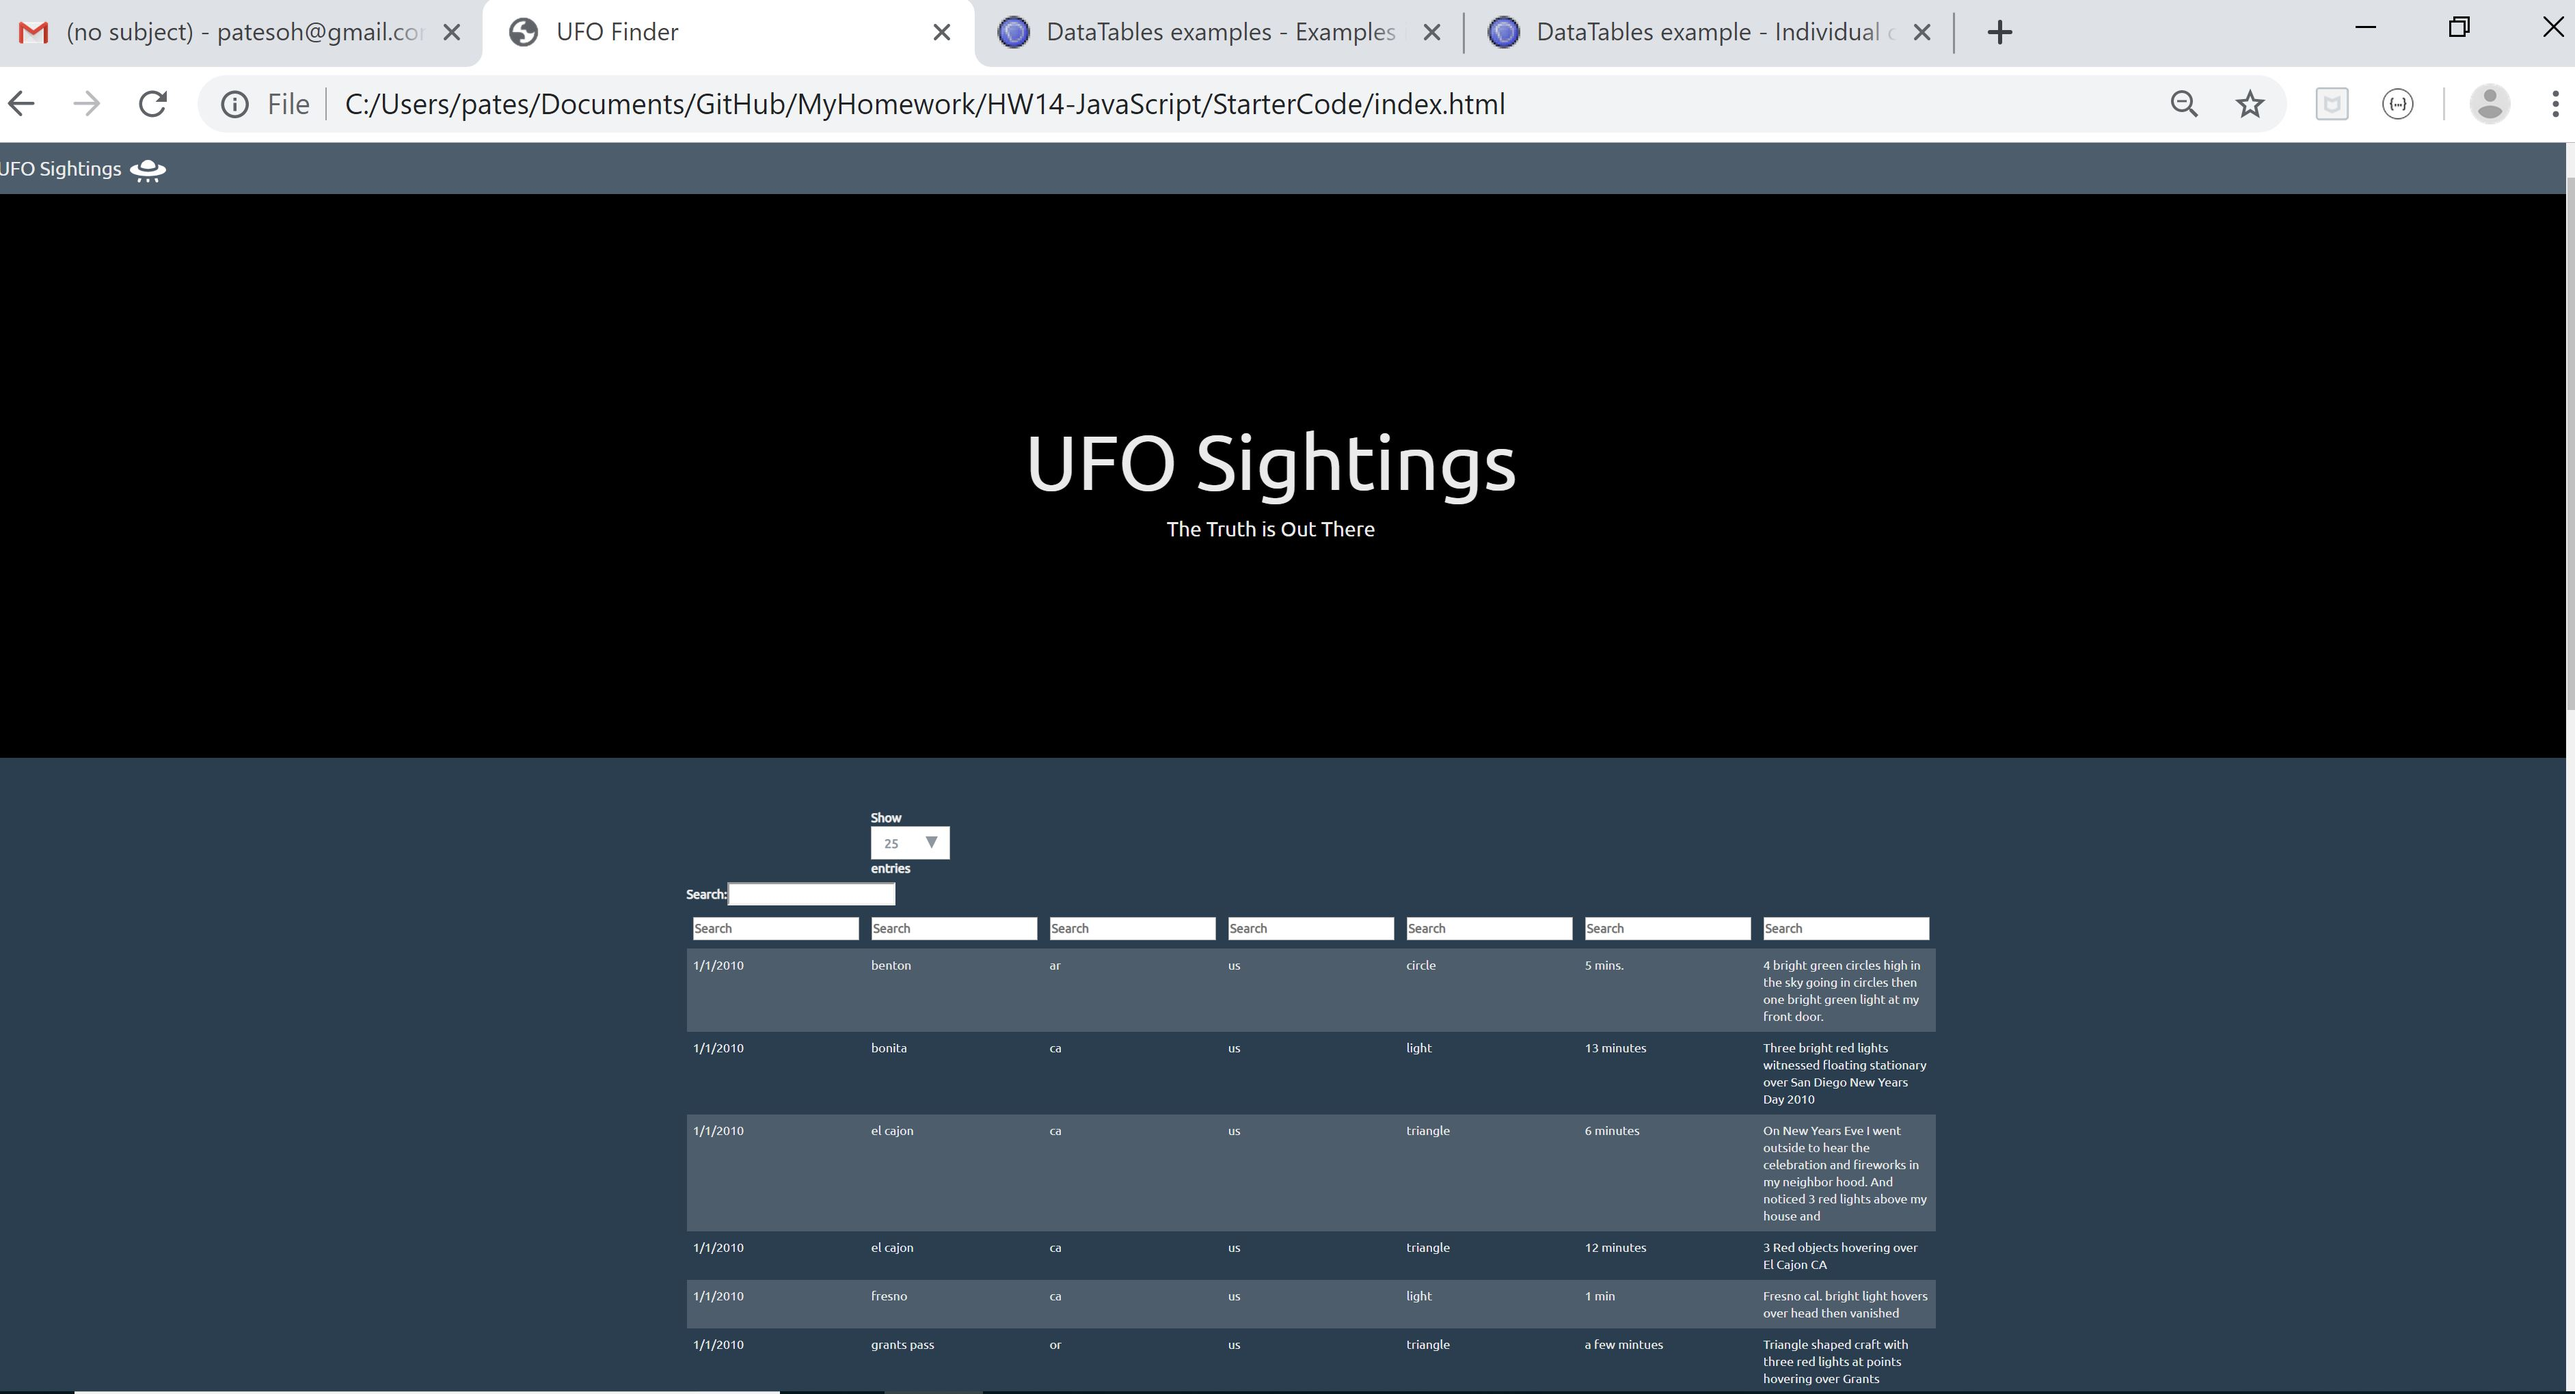
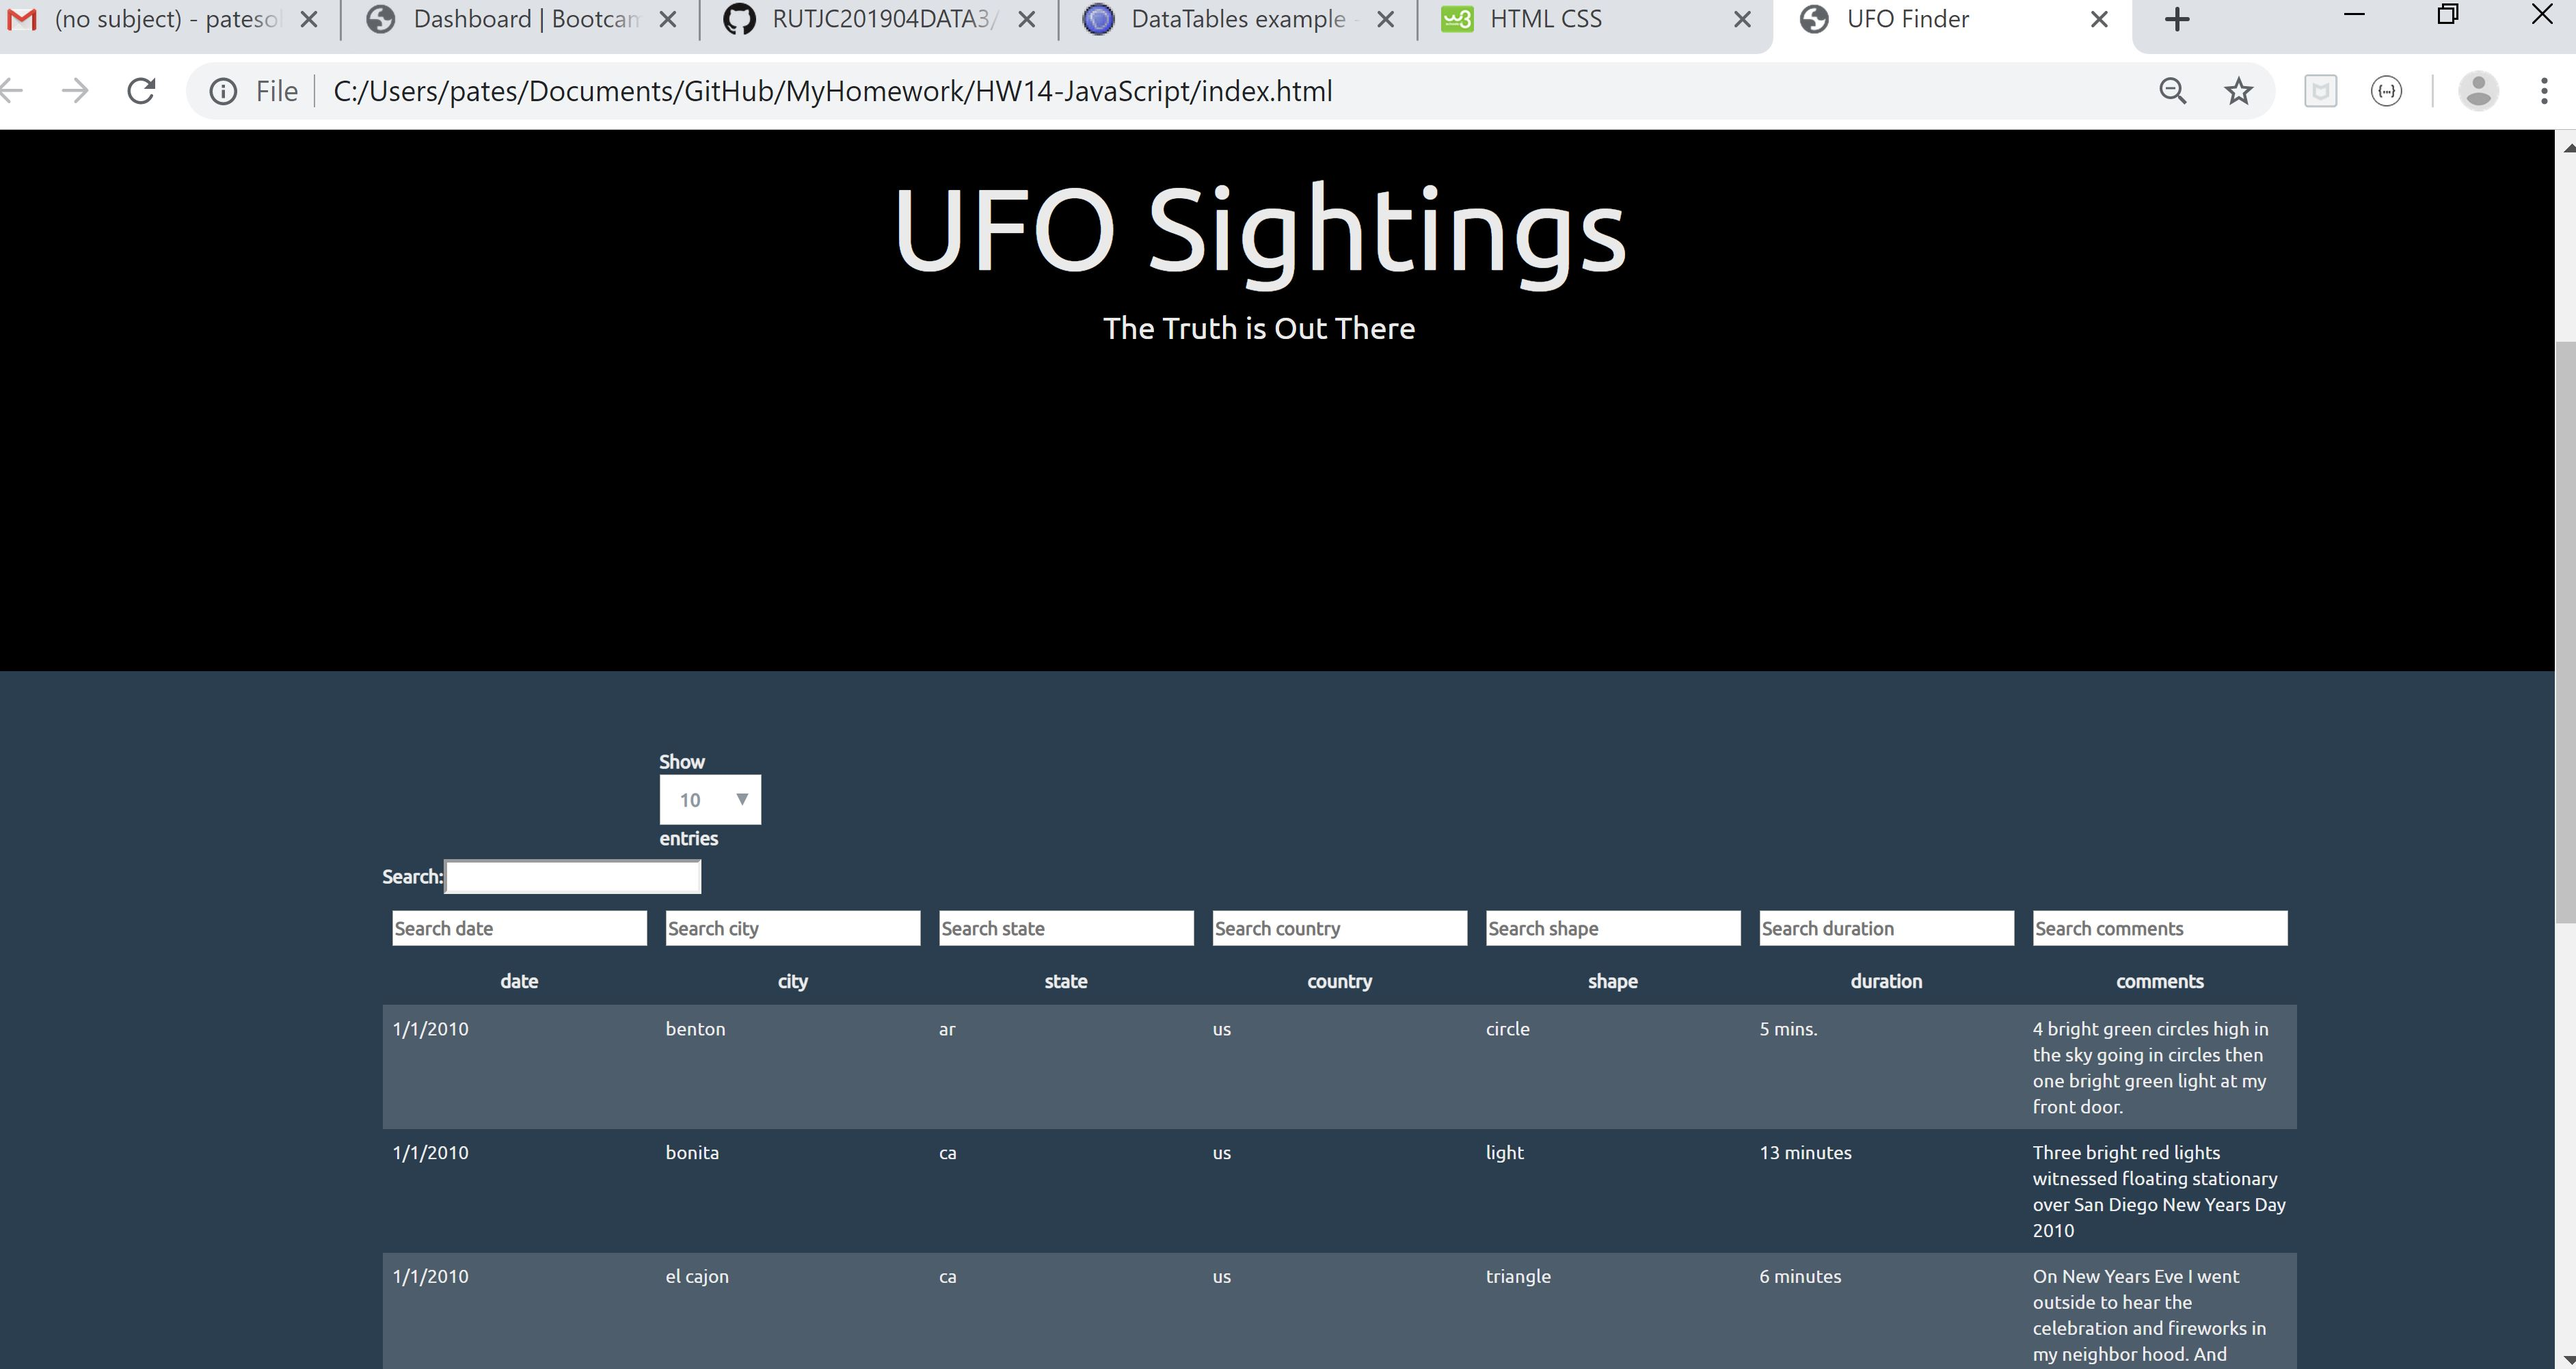
Minor updates and fixes
Minor updates and fixes

diff --git a/HW16 - Data Journalism and D3/StarterCode/index.html b/HW16 - Data Journalism and D3/StarterCode/index.html
@@ -1,0 +1,64 @@
+<!DOCTYPE html>
+<html lang="en">
+
+<head>
+  <meta charset="UTF-8">
+  <title>D3Times</title>
+  <script src="https://code.jquery.com/jquery-3.3.1.slim.min.js" integrity="sha384-q8i/X+965DzO0rT7abK41JStQIAqVgRVzpbzo5smXKp4YfRvH+8abtTE1Pi6jizo"
+    crossorigin="anonymous"></script>
+  <script src="https://cdnjs.cloudflare.com/ajax/libs/popper.js/1.14.3/umd/popper.min.js" integrity="sha384-ZMP7rVo3mIykV+2+9J3UJ46jBk0WLaUAdn689aCwoqbBJiSnjAK/l8WvCWPIPm49"
+    crossorigin="anonymous"></script>
+  <script src="https://stackpath.bootstrapcdn.com/bootstrap/4.1.3/js/bootstrap.min.js" integrity="sha384-ChfqqxuZUCnJSK3+MXmPNIyE6ZbWh2IMqE241rYiqJxyMiZ6OW/JmZQ5stwEULTy"
+    crossorigin="anonymous"></script>
+  <link rel="stylesheet" href="https://stackpath.bootstrapcdn.com/bootstrap/4.1.3/css/bootstrap.min.css" integrity="sha384-MCw98/SFnGE8fJT3GXwEOngsV7Zt27NXFoaoApmYm81iuXoPkFOJwJ8ERdknLPMO"
+    crossorigin="anonymous">
+  <link rel="stylesheet" href="assets/css/style.css">
+  <link rel="stylesheet" href="assets/css/d3Style.css">
+
+</head>
+
+<body>
+  <div class="container">
+    <div class="row">
+      <div class="col-xs-12 col-md-12">
+        <h1>D3Times</h1>
+      </div>
+    </div>
+    <div class="row">
+      <div class="col-xs-12  col-md-9">
+        <div id="scatter">
+          <!-- We append our chart here. -->
+        </div>
+      </div>
+    </div>
+    <div class="row">
+      <div class="col-xs-12  col-md-9">
+        <div class="article">
+          <h2>Correlations Discovered Between Health Risks and Age, Income</h2>
+          <p>Pellentesque habitant morbi tristique senectus et netus et malesuada fames ac turpis egestas. Vestibulum tortor
+            quam, feugiat vitae, ultricies eget, tempor sit amet, ante. Donec eu libero sit amet quam egestas semper. Aenean
+            ultricies mi vitae est. Mauris placerat eleifend leo.</p>
+
+          <p>Pellentesque habitant morbi tristique senectus et netus et malesuada fames ac turpis egestas. Vestibulum tortor
+            quam, feugiat vitae, ultricies eget, tempor sit amet, ante. Donec eu libero sit amet quam egestas semper. Aenean
+            ultricies mi vitae est. Mauris placerat eleifend leo.</p>
+
+          <p>Pellentesque habitant morbi tristique senectus et netus et malesuada fames ac turpis egestas. Vestibulum tortor
+            quam, feugiat vitae, ultricies eget, tempor sit amet, ante. Donec eu libero sit amet quam egestas semper. Aenean
+            ultricies mi vitae est. Mauris placerat eleifend leo.</p>
+        </div>
+      </div>
+    </div>
+  </div>
+
+  <!-- Footer-->
+  <div id="footer">
+    <p>The Coding Boot Camp&copy;2016</p>
+  </div>
+  <script src="https://cdnjs.cloudflare.com/ajax/libs/d3/5.5.0/d3.min.js"></script>
+  <script src="https://cdnjs.cloudflare.com/ajax/libs/d3-tip/0.9.1/d3-tip.js"></script>
+  <script type="text/javascript" src="assets/js/app.js"></script>
+
+</body>
+
+</html>

diff --git a/HW14-JavaScript/static/js/app.js b/HW14-JavaScript/static/js/app.js
@@ -3,7 +3,7 @@ var tbody = d3.select("tbody");
 
 console.log(data);
 
-// Use D3 Refactor to populate the table with all data from data.js
+// Use D3 arrow function to populate the table with all data from data.js
 data.forEach((UFOReport) => {
     var row = tbody.append("tr");
     Object.entries(UFOReport).forEach(([key, value]) => {
@@ -13,24 +13,27 @@ data.forEach((UFOReport) => {
   });
 
 //   Use jquery datatable feature to build in a master search feature
-// and build a column
-$(document).ready(function() {
-    // Setup - add a text input to each footer cell
-    $('#ufo-table thead th').each( function () {
-        var title = $('#ufo-table tfoot th').eq( $(this).index() ).text();
-        $(this).html( '<input type="text" placeholder="Search '+title+'" />' );
-    } );
+// and build a column-specific search box for all columns in the table, that also has a sort feature, at the top of the table
+$('#ufo-table thead th').each( function () {
+    var title = $('#ufo-table tfoot th').eq( $(this).index() ).text();
+    $(this).html( '<input type="text" placeholder="Search '+title+'" />' );
+} );
 
-    // DataTable
-    var table = $('#ufo-table').DataTable();
+// DataTable
+var table = $('#ufo-table').DataTable();
 
-    // Apply the search
-    table.columns().eq( 0 ).each( function ( colIdx ) {
-        $( 'input', table.column( colIdx ).header() ).on( 'keyup change clear', function () {
-            table
-                .column( colIdx )
-                .search( this.value )
-                .draw();
-        } );
+// Apply the search
+table.columns().eq( 0 ).each( function ( colIdx ) {
+    $( 'input', table.column( colIdx ).header() ).on( 'keyup change', function () {
+        table
+            .column( colIdx )
+            .search( this.value )
+            .draw();
     } );
 } );
+
+// Keep the column headers on top
+$('#ufo-table tfoot tr').appendTo('#ufo-table thead');
+
+
+

diff --git a/HW16 - Data Journalism and D3/StarterCode/assets/css/d3Style.css b/HW16 - Data Journalism and D3/StarterCode/assets/css/d3Style.css
@@ -1,0 +1,70 @@
+.aText {
+  font-family: sans-serif;
+  font-size: 16px;
+  text-anchor: middle;
+}
+
+.active {
+  font-weight: bold;
+  fill: #000;
+  transition: fill 0.3s ease-out;
+  text-anchor: middle;
+}
+
+.inactive {
+  font-weight: lighter;
+  fill: #c9c9c9;
+  transition: fill 0.3s ease-out;
+  text-anchor: middle;
+}
+
+.inactive:hover {
+  fill: #000;
+  cursor: pointer;
+}
+
+/* font size dependent on radius, see app.js */
+.stateText {
+  font-family: sans-serif;
+  fill: #fff;
+  text-anchor: middle;
+}
+
+.stateCircle {
+  fill: #89bdd3;
+  stroke: #e3e3e3;
+}
+
+.chart {
+  display: block;
+  margin: 0;
+}
+
+.d3-tip {
+  padding: 6px;
+  font-size: 12px;
+  line-height: 1;
+  line-height: 1.5em;
+  color: #fff;
+  text-align: center;
+  text-transform: capitalize;
+  background: rgba(0, 0, 0, 0.8);
+  border-radius: 4px;
+}
+
+/* Mobile Rules */
+@media screen and (max-width: 530px) {
+  .stateText {
+    display: none;
+  }
+
+  .aText {
+    font-size: 14px;
+  }
+}
+
+@media screen and (max-width: 400px) {
+  .aText {
+    font-size: 13px;
+  }
+}

diff --git a/HW14-JavaScript/index.html b/HW14-JavaScript/index.html
@@ -9,7 +9,11 @@
   <link href="https://fonts.googleapis.com/css?family=Ubuntu" rel="stylesheet">
   <link rel="stylesheet" href="static/css/style.css">
 </head>
-
+<style>
+  tfoot {
+    display: table-header-group;
+}
+</style>
 <body>
   <div class="wrapper">
     <nav class="navbar navbar-default">
@@ -65,6 +69,17 @@
                 </tr>
               </thead>
               <tbody></tbody>
+              <tfoot>
+                <tr>
+                  <th>date</th>
+                  <th>city</th>
+                  <th>state</th>
+                  <th>country</th>
+                  <th>shape</th>
+                  <th>duration</th>
+                  <th>comments</th>
+                </tr>
+              </tfoot>
               </table>
           </div>
         </div>

diff --git a/HW16 - Data Journalism and D3/StarterCode/assets/css/style.css b/HW16 - Data Journalism and D3/StarterCode/assets/css/style.css
@@ -1,0 +1,31 @@
+.iframeContainer {
+  padding: 20px;
+  border: 1px solid #e3e3e3;
+}
+
+/* Sticky Footer rules (https://getbootstrap.com/examples/sticky-footer/) */
+html {
+  position: relative;
+  min-height: 100%;
+}
+
+body {
+  /* Padding bottom by footer height */
+  padding-bottom: 80px;
+}
+
+#footer {
+  position: absolute;
+  bottom: 0;
+  width: 100%; /* Set the fixed height of the footer here */
+  height: 10px;
+  padding-top: 20px;
+  padding-bottom: 40px;
+  text-align: center;
+  background-color: #f5f5f5;
+}
+
+#footer p {
+  margin: 0;
+  font-size: 16px;
+}

diff --git a/HW16 - Data Journalism and D3/StarterCode/assets/js/app.js b/HW16 - Data Journalism and D3/StarterCode/assets/js/app.js
@@ -1,0 +1,1 @@
+// @TODO: YOUR CODE HERE!
